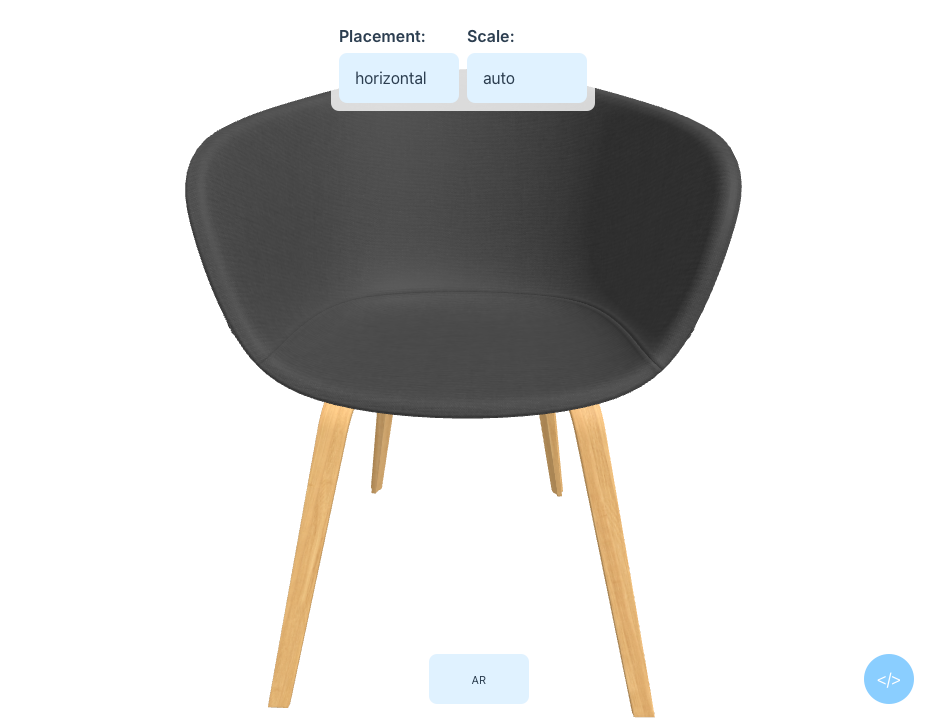
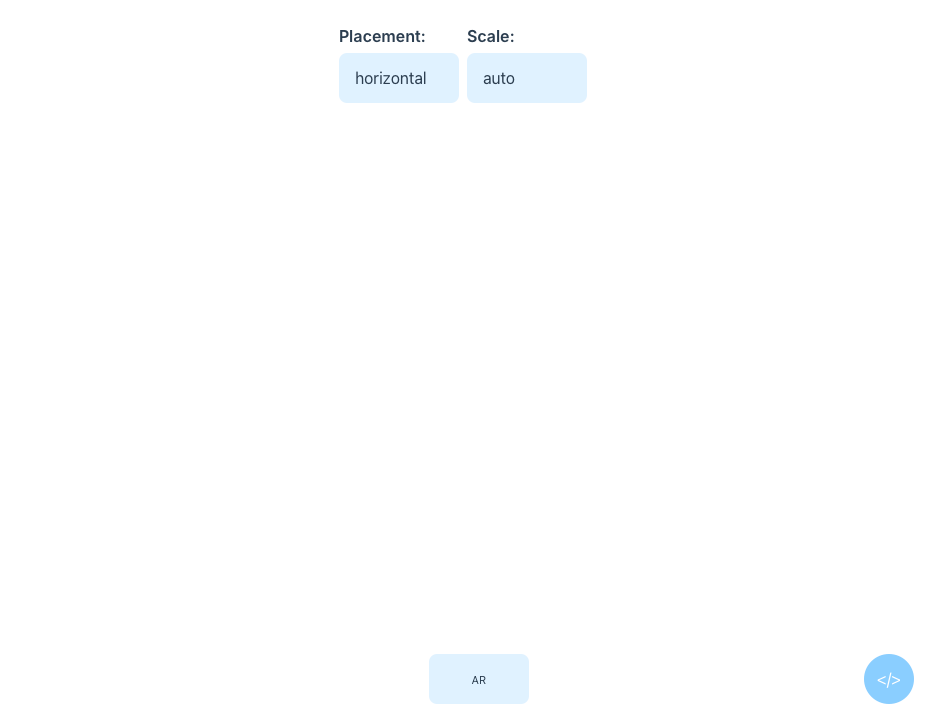
feat: added new test for moving camera.

Changed region(s): [[0.1814, 0.0917, 0.8164, 1.0]]

diff --git a/e2e/DiveQuickView.test.ts b/e2e/DiveQuickView.test.ts
@@ -1,11 +1,34 @@
 import { test, expect } from '@playwright/test';
 
+const ROUTE = '/';
+
 test('shows model', async ({ page }) => {
-    await page.goto('/');
+    await page.goto(ROUTE);
     await expect(page.locator('div.app-container')).toBeVisible();
     await expect(page.locator('div.sidebar')).toBeVisible();
     await expect(page.locator('div.content')).toBeVisible();
 
     await expect(page.locator('div.canvasWrapper > canvas')).toBeVisible();
     await expect(page.locator('div.canvasWrapper > canvas')).toHaveScreenshot('dive-quick-view-model-visible.png');
+});
+
+test('click', async ({ page }) => {
+    await page.goto(ROUTE);
+    const canvas = page.locator('div.canvasWrapper > canvas');
+    await expect(canvas).toBeVisible();
+    const boundingBox = await canvas.boundingBox();
+    if (!boundingBox) {
+        throw new Error('Bounding box not found');
+    }
+    const center = {
+        x: boundingBox.x + boundingBox.width / 2,
+        y: boundingBox.y + boundingBox.height / 2,
+    };
+
+    await page.mouse.move(center.x, center.y);
+    await page.mouse.down();
+    await page.mouse.move(center.x + 100, center.y + 100, { steps: 100 });
+    await page.mouse.up();
+    await page.waitForTimeout(1000);
+    await expect(page.locator('div.canvasWrapper > canvas')).toHaveScreenshot('dive-move-camera.png');
 });

diff --git a/playwright.config.ts b/playwright.config.ts
@@ -11,7 +11,7 @@ import { defineConfig, devices } from '@playwright/test'
  * See https://playwright.dev/docs/test-configuration.
  */
 export default defineConfig({
-  testDir: 'src',
+  testDir: 'e2e',
   /* Maximum time one test can run for. */
   timeout: 30 * 1000,
   expect: {